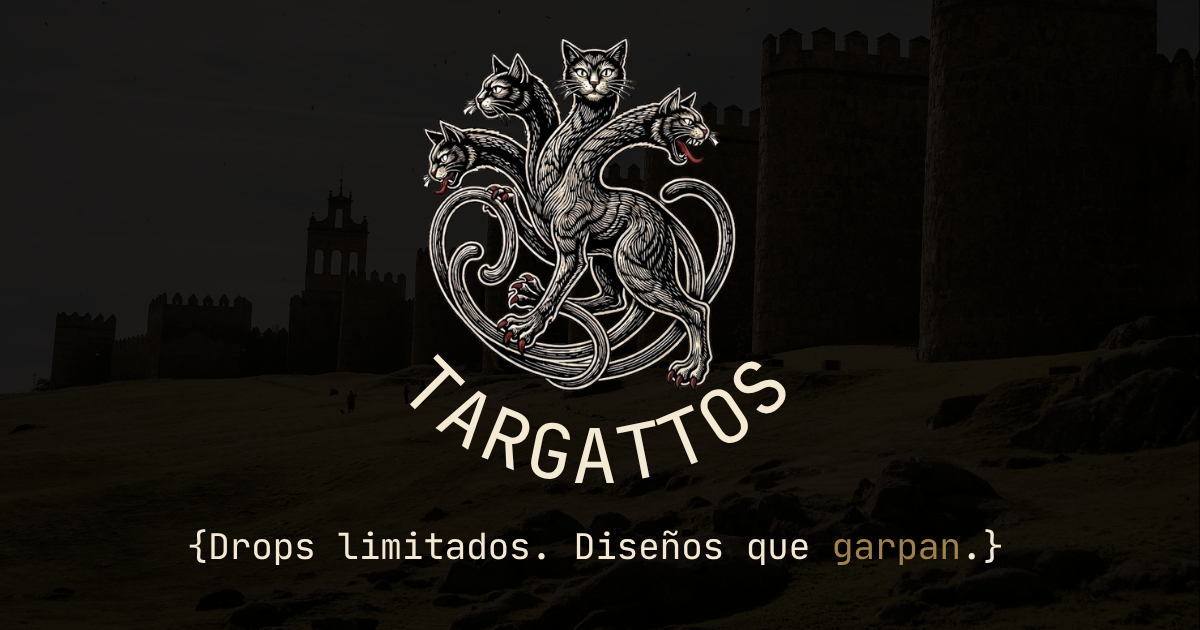
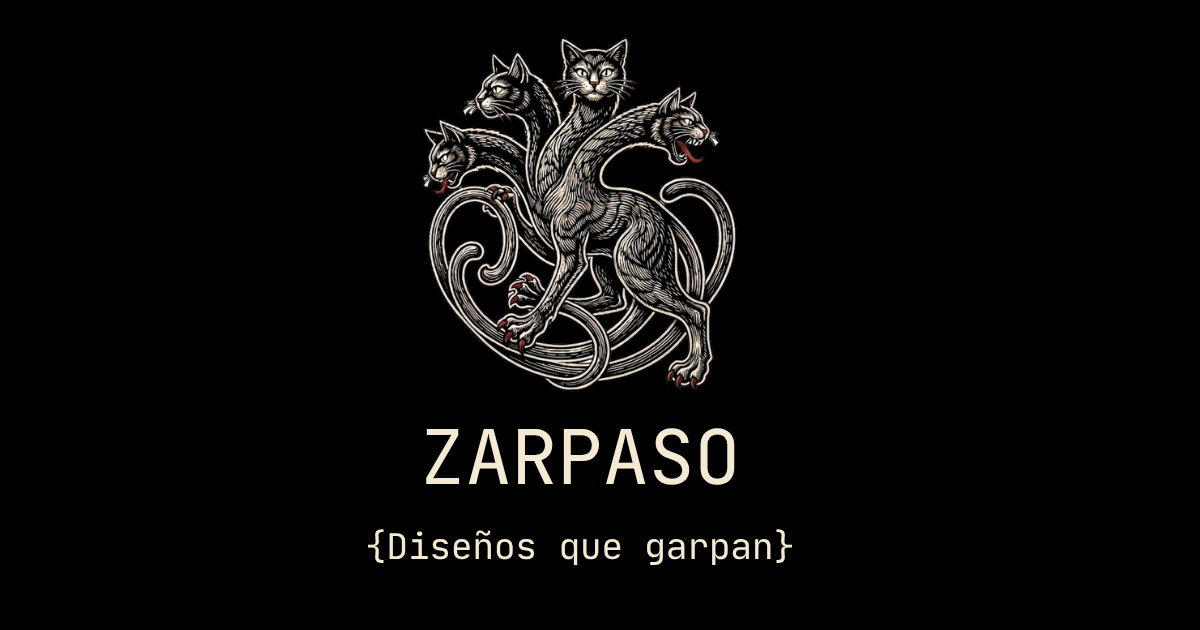
cambios de targattos a zarpaso

diff --git a/src/app/nosotros/page.tsx b/src/app/nosotros/page.tsx
@@ -1,4 +1,5 @@
 import Image from "next/image"
+import { config } from "@/data/config"
 
 export default function Nosotros() {
   return (
@@ -6,8 +7,8 @@ export default function Nosotros() {
       <div className="max-w-2xl mx-auto">
         <div className="flex justify-center mb-12">
           <Image
-            src="/brand/targattos-logo.png"
-            alt="Targattos"
+            src={config.brand.logoPath}
+            alt={config.brand.name}
             width={200}
             height={200}
           />
@@ -15,13 +16,34 @@ export default function Nosotros() {
         <h1 className="font-mono text-4xl font-bold tracking-tight mb-6">
           Nosotros
         </h1>
-        <p className="font-mono text-zinc-400 text-lg leading-8">
-          Targattos es una marca de remeras con diseños únicos y humor para
-          comunidades. Drops limitados, producción propia, identidad real.
+       <div className="font-mono text-zinc-400 text-lg leading-8 space-y-6">
+        <p>
+          ¿Cuántas cabezas tiene el gato? ¿Tres? ¿Cinco?{" "}
+          Como diría Ravnovich: una cabeza, una oveja.{" "}
+          Nosotros dijimos: cuatro cabezas, un gato. Y de ahí no había vuelta atrás.
         </p>
-        <p className="font-mono text-zinc-400 text-lg leading-8 mt-4">
-          No vendemos ropa. Vendemos cultura.
-        </p>
+
+        <p>
+          ¿Cuántas garras?{" "}
+          Las suficientes{" "}
+          para hacer un{" "}
+          <span className="text-green-400">sudo rm -rf/*</span>{" "}
+          sin arrepentirse.
+          <br />
+          ¿Cuántas colas? Al menos tres. Una para el teclado, otra para el mouse y la última para el café.
+          </p>
+
+          <p>
+            Somos developers que codeamos riéndonos.{" "}
+            {config.brand.name} nació a las 3am entre un bug y una decisión de arquitectura
+            que en el momento pareció sagaz.
+          </p>
+
+          <p className="text-zinc-400">
+            Y como número fuera de programa... vendemos remeras estampadas por nosotros.
+            Las remeras están en el menú de arriba, nuestro pequeño kiosquito suburbano. .{" "}
+          </p>
+        </div>
       </div>
     </main>
   )

diff --git a/src/app/layout.tsx b/src/app/layout.tsx
@@ -4,6 +4,7 @@ import "./globals.css";
 import Navbar from "@/components/layout/navbar";
 import Footer from "@/components/layout/footer";
 import { Analytics } from "@vercel/analytics/next"
+import { config } from "@/data/config"
 
 const geistSans = Geist({
   variable: "--font-geist-sans",
@@ -15,34 +16,36 @@ const geistMono = Geist_Mono({
   subsets: ["latin"],
 });
 
+const brandTitle = `${config.brand.name} — Productos. Diseños que garpan.`
+const brandDescription =
+  "Remeras con diseños únicos y humor para comunidades. Productos, producción propia, identidad real."
+
 export const metadata: Metadata = {
-  title: "Targattos — Drops limitados. Diseños que garpan.",
-  description:
-    "Remeras con diseños únicos y humor para comunidades. Drops limitados, producción propia, identidad real.",
+  title: brandTitle,
+  description: brandDescription,
   keywords: [
     "remeras",
     "estampadas",
     "diseños",
     "developers",
     "argentina",
-    "drops limitados",
-    "targattos",
+    "productos",
+    config.brand.name.toLowerCase(),
   ],
-  authors: [{ name: "Targattos" }],
-  creator: "Targattos",
-  metadataBase: new URL("https://targattos.vercel.app"),
+  authors: [{ name: config.brand.name }],
+  creator: config.brand.name,
+  metadataBase: new URL(config.brand.siteUrl),
   openGraph: {
-    title: "Targattos — Drops limitados. Diseños que garpan.",
-    description:
-      "Remeras con diseños únicos y humor para comunidades. Drops limitados, producción propia, identidad real.",
-    url: "https://targattos.vercel.app",
-    siteName: "Targattos",
+    title: brandTitle,
+    description: brandDescription,
+    url: config.brand.siteUrl,
+    siteName: config.brand.name,
     images: [
       {
         url: "/opengraph-image.png",
         width: 1200,
         height: 630,
-        alt: "Targattos — Drops limitados. Diseños que garpan.",
+        alt: brandTitle,
       },
     ],
     locale: "es_AR",
@@ -50,9 +53,8 @@ export const metadata: Metadata = {
   },
   twitter: {
     card: "summary_large_image",
-    title: "Targattos — Drops limitados. Diseños que garpan.",
-    description:
-      "Remeras con diseños únicos y humor para comunidades. Drops limitados, producción propia, identidad real.",
+    title: brandTitle,
+    description: brandDescription,
     images: ["/opengraph-image.png"],
   },
   icons: {

diff --git a/src/data/products.ts b/src/data/products.ts
@@ -94,18 +94,18 @@ export const products: Product[] = [
   },
   {
     id: "6",
-    slug: "targattos-logo",
-    title: "Targattos",
+    slug: "zarpazo-logo",
+    title: "Zarpazo",
     description: "El logo. La marca. El origen.",
     price: 34900,
     active: true,
-    image: "/products/targattos-logo/black.webp",
-    variants: makeVariants("targattos-logo"),
+    image: "/products/zarpazo-logo/black.webp",
+    variants: makeVariants("zarpazo-logo"),
     colors: [
-        { name: "Negro", image: "/products/targattos-logo/black.webp", hex: "#1a1a1a" },
-        { name: "Blanco", image: "/products/targattos-logo/white.webp", hex: "#ffffff" },
-        { name: "Gris", image: "/products/targattos-logo/grey.webp", hex: "#6b7280" },
-        { name: "Café", image: "/products/targattos-logo/coffee.webp", hex: "#6f4e37" },
+        { name: "Negro", image: "/products/zarpazo-logo/black.webp", hex: "#1a1a1a" },
+        { name: "Blanco", image: "/products/zarpazo-logo/white.webp", hex: "#ffffff" },
+        { name: "Gris", image: "/products/zarpazo-logo/grey.webp", hex: "#6b7280" },
+        { name: "Café", image: "/products/zarpazo-logo/coffee.webp", hex: "#6f4e37" },
     ]
   },
   {

diff --git a/src/components/layout/navbar.tsx b/src/components/layout/navbar.tsx
@@ -1,19 +1,20 @@
 import Image from "next/image"
 import Link from "next/link"
+import { config } from "@/data/config"
 
 export default function Navbar() {
   return (
     <header className="flex items-center justify-between px-6 py-4 border-b border-zinc-800 bg-black sticky top-0 z-50">
       <Link href="/" className="flex items-center gap-3">
         <Image
-          src="/brand/targattos-logo.png"
-          alt="Targattos"
+          src={config.brand.logoPath}
+          alt={config.brand.name}
           width={40}
           height={40}
           className="rounded-full"
         />
         <span className="font-mono text-xl font-bold tracking-tight text-white">
-          Targattos
+          {config.brand.nameUpper}
         </span>
       </Link>
 
@@ -22,7 +23,7 @@ export default function Navbar() {
           href="/#productos"
           className="font-mono text-sm text-zinc-400 hover:text-white transition-colors"
         >
-          Drops
+          Productos
         </Link>
         <Link
             href="/nosotros"

diff --git a/src/data/config.ts b/src/data/config.ts
@@ -1,4 +1,10 @@
 export const config = {
+  brand: {
+    name: "Zarpazo",
+    nameUpper: "ZARPAZO",
+    siteUrl: "https://zarpazo.vercel.app",
+    logoPath: "/brand/zarpazo-logo.png",
+  },
   whatsapp: "[phone redacted]",
-  instagram: "https://instagram.com/targattos",
+  instagram: "https://instagram.com/zarpazo",
 }

diff --git a/src/components/home/how-it-works.tsx b/src/components/home/how-it-works.tsx
@@ -8,9 +8,9 @@ export default function HowItWorks() {
         <div className="grid grid-cols-1 md:grid-cols-4 gap-8">
           {[
             { step: "01", title: "Elegís", desc: "Encontrás el diseño que te representa." },
-            { step: "02", title: "Pedís", desc: "Mandás un WhatsApp con tu talle y color." },
-            { step: "03", title: "Transferís", desc: "Confirmás el pedido con la transferencia." },
-            { step: "04", title: "Recibís", desc: "Lo producimos y te lo mandamos." },
+            { step: "02", title: "Pedís", desc: "Entrás al diseño que elegistes, y nos mandás un WhatsApp con tu talle y color." },
+            { step: "03", title: "Transferís", desc: "te mandamos alias y confirmás el pedido con la transferencia." },
+            { step: "04", title: "Recibís", desc: "Lo fabricamos y te lo enviamos." },
           ].map((item) => (
             <div key={item.step} className="flex flex-col gap-3">
               <span className="font-mono text-orange-500 text-4xl font-bold">

diff --git a/src/app/product/[slug]/page.tsx b/src/app/product/[slug]/page.tsx
@@ -1,6 +1,7 @@
 import { products } from "@/data/products"
 import { notFound } from "next/navigation"
 import ProductActions from "@/components/product/product-actions"
+import { config } from "@/data/config"
 
 type Props = {
   params: Promise<{ slug: string }>
@@ -15,7 +16,7 @@ export async function generateMetadata({ params }: Props) {
   const product = products.find((p) => p.slug === slug)
   if (!product) return {}
   return {
-    title: `${product.title} — Targattos`,
+    title: `${product.title} — ${config.brand.name}`,
     description: product.description,
   }
 }

diff --git a/src/app/robots.ts b/src/app/robots.ts
@@ -1,6 +1,7 @@
 import type { MetadataRoute } from "next"
+import { config } from "@/data/config"
 
-const baseUrl = "https://targattos.vercel.app"
+const baseUrl = config.brand.siteUrl
 
 export default function robots(): MetadataRoute.Robots {
   return {

diff --git a/src/app/sitemap.ts b/src/app/sitemap.ts
@@ -1,7 +1,8 @@
 import type { MetadataRoute } from "next"
 import { products } from "@/data/products"
+import { config } from "@/data/config"
 
-const baseUrl = "https://targattos.vercel.app"
+const baseUrl = config.brand.siteUrl
 
 export default function sitemap(): MetadataRoute.Sitemap {
   const staticRoutes = ["/", "/nosotros"].map((route) => ({

diff --git a/src/components/layout/footer.tsx b/src/components/layout/footer.tsx
@@ -6,7 +6,7 @@ export default function Footer() {
     <footer className="border-t border-zinc-800 bg-black px-6 py-8 mt-auto">
       <div className="flex flex-col md:flex-row items-center justify-between gap-4">
         <span className="font-mono text-zinc-500 text-sm">
-          © 2026 Targattos. Drops limitados.
+          © 2026 {config.brand.name}.
         </span>
         <Link
             href="/nosotros"

diff --git a/src/components/product/whatsapp-button.tsx b/src/components/product/whatsapp-button.tsx
@@ -36,7 +36,7 @@ export default function WhatsappButton({ productTitle, selectedSize, selectedCol
       )}
       {selectedSize && selectedColor && (
         <p className="font-mono text-zinc-600 text-xs">
-          Confirmación manual por transferencia. Drop limitado.
+          Confirmación manual por transferencia.
         </p>
       )}
     </div>

diff --git a/CLAUDE.md b/CLAUDE.md
@@ -1,10 +1,10 @@
 @AGENTS.md
 
-# CLAUDE.md — Targattos
+# CLAUDE.md — Zarpazo
 
 ## Contexto del proyecto
 
-Marca de remeras con diseños únicos y humor para comunidades específicas (devs, abogados, tango, etc). Drops limitados, producción propia con láminas DTF. Una sola marca paraguas. El modelo de negocio, stack, y reglas de arquitectura están en AGENTS.md.
+Marca de remeras con diseños únicos y humor para comunidades específicas (devs, abogados, tango, etc). Productos, producción propia con láminas DTF. Una sola marca paraguas. El modelo de negocio, stack, y reglas de arquitectura están en AGENTS.md.
 
 ## Quién desarrolla esto
 
@@ -17,19 +17,19 @@ Solo. Sin equipo. Con human on the loop: cada comando se ejecuta uno por uno, se
 - 8 productos hardcodeados en src/data/products.ts a $35.000 ARS
 - Imágenes en public/products/[slug]/front.webp (formato WEBP, 800x800px)
 - loading-cafe y js-do-it tienen variantes de color: black, white, grey, coffee
-- Navbar sticky con logo (public/brand/targattos-logo.png) y links a /#productos y /nosotros
+- Navbar sticky con logo (public/brand/zarpazo-logo.png) y links a /#productos y /nosotros
 - Footer con links placeholder a Instagram y WhatsApp (config.ts)
 - Página /nosotros con logo grande y copy provisorio
 - Página /product/[slug] con selector de color, selector de talle con estado visual y botón WhatsApp que arma el mensaje completo
 - SEO completo en src/app/layout.tsx: title, description, openGraph, twitter, manifest
-- metadataBase apuntando a https://targattos.vercel.app (actualizar cuando targattos.com esté activo)
+- metadataBase apuntando a https://zarpazo.vercel.app (actualizar cuando zarpazo.com esté activo)
 - opengraph-image.png en public/ (1200x630px PNG)
 - Favicon en src/app/favicon.ico generado desde favicon.io
 - site.webmanifest en public/ con theme_color y background_color en negro
-- Logo con fondo transparente en public/brand/targattos-logo.png
+- Logo con fondo transparente en public/brand/zarpazo-logo.png
 - robots.ts y sitemap.ts en src/app/ (sitemap incluye solo / y /nosotros)
 - Configuración centralizada en src/data/config.ts (whatsapp y instagram)
-- Repo en GitHub: https://github.com/CoachEmilio/targattos
+- Repo en GitHub: https://github.com/CoachEmilio/zarpazo
 - Deploy en Vercel: pendiente
 
 ## Estructura de componentes
@@ -72,15 +72,15 @@ Usuario entra → ve grid de productos → hace click en card → página de pro
 
 1. Auditoría pre-deploy con Copilot
 2. Deploy en Vercel importando el repo desde GitHub
-3. Número real de WhatsApp Business para Targattos en config.ts
-4. Instagram real de Targattos en config.ts
+3. Número real de WhatsApp Business para Zarpazo en config.ts
+4. Instagram real de Zarpazo en config.ts
 5. Agregar variantes de color al resto de los 6 diseños cuando estén las imágenes
-6. Actualizar metadataBase cuando targattos.com esté activo en Namecheap
-7. Comprar targattos.com en Namecheap y conectar a Vercel
+6. Actualizar metadataBase cuando zarpazo.com esté activo en Namecheap
+7. Comprar zarpazo.com en Namecheap y conectar a Vercel
 
 ## Dominio
 
-- targattos.com NO comprado en Namecheap aún
+- zarpazo.com NO comprado en Namecheap aún
 - Cuando esté comprado, conectar a Vercel con dos registros DNS
 - Cuando esté conectado, actualizar metadataBase en src/app/layout.tsx y config.ts
 
@@ -102,8 +102,8 @@ Usuario entra → ve grid de productos → hace click en card → página de pro
 - Footer tiene URLs placeholder de Instagram y WhatsApp hasta tener los reales
 - /nosotros tiene copy provisorio
 - 6 productos sin variantes de color todavía (solo front.webp)
-- WhatsApp Business separado para Targattos pendiente para mañana
-- targattos.com sin comprar todavía
+- WhatsApp Business separado para Zarpazo pendiente para mañana
+- zarpazo.com sin comprar todavía
 
 ## Aprendizajes acumulados
 